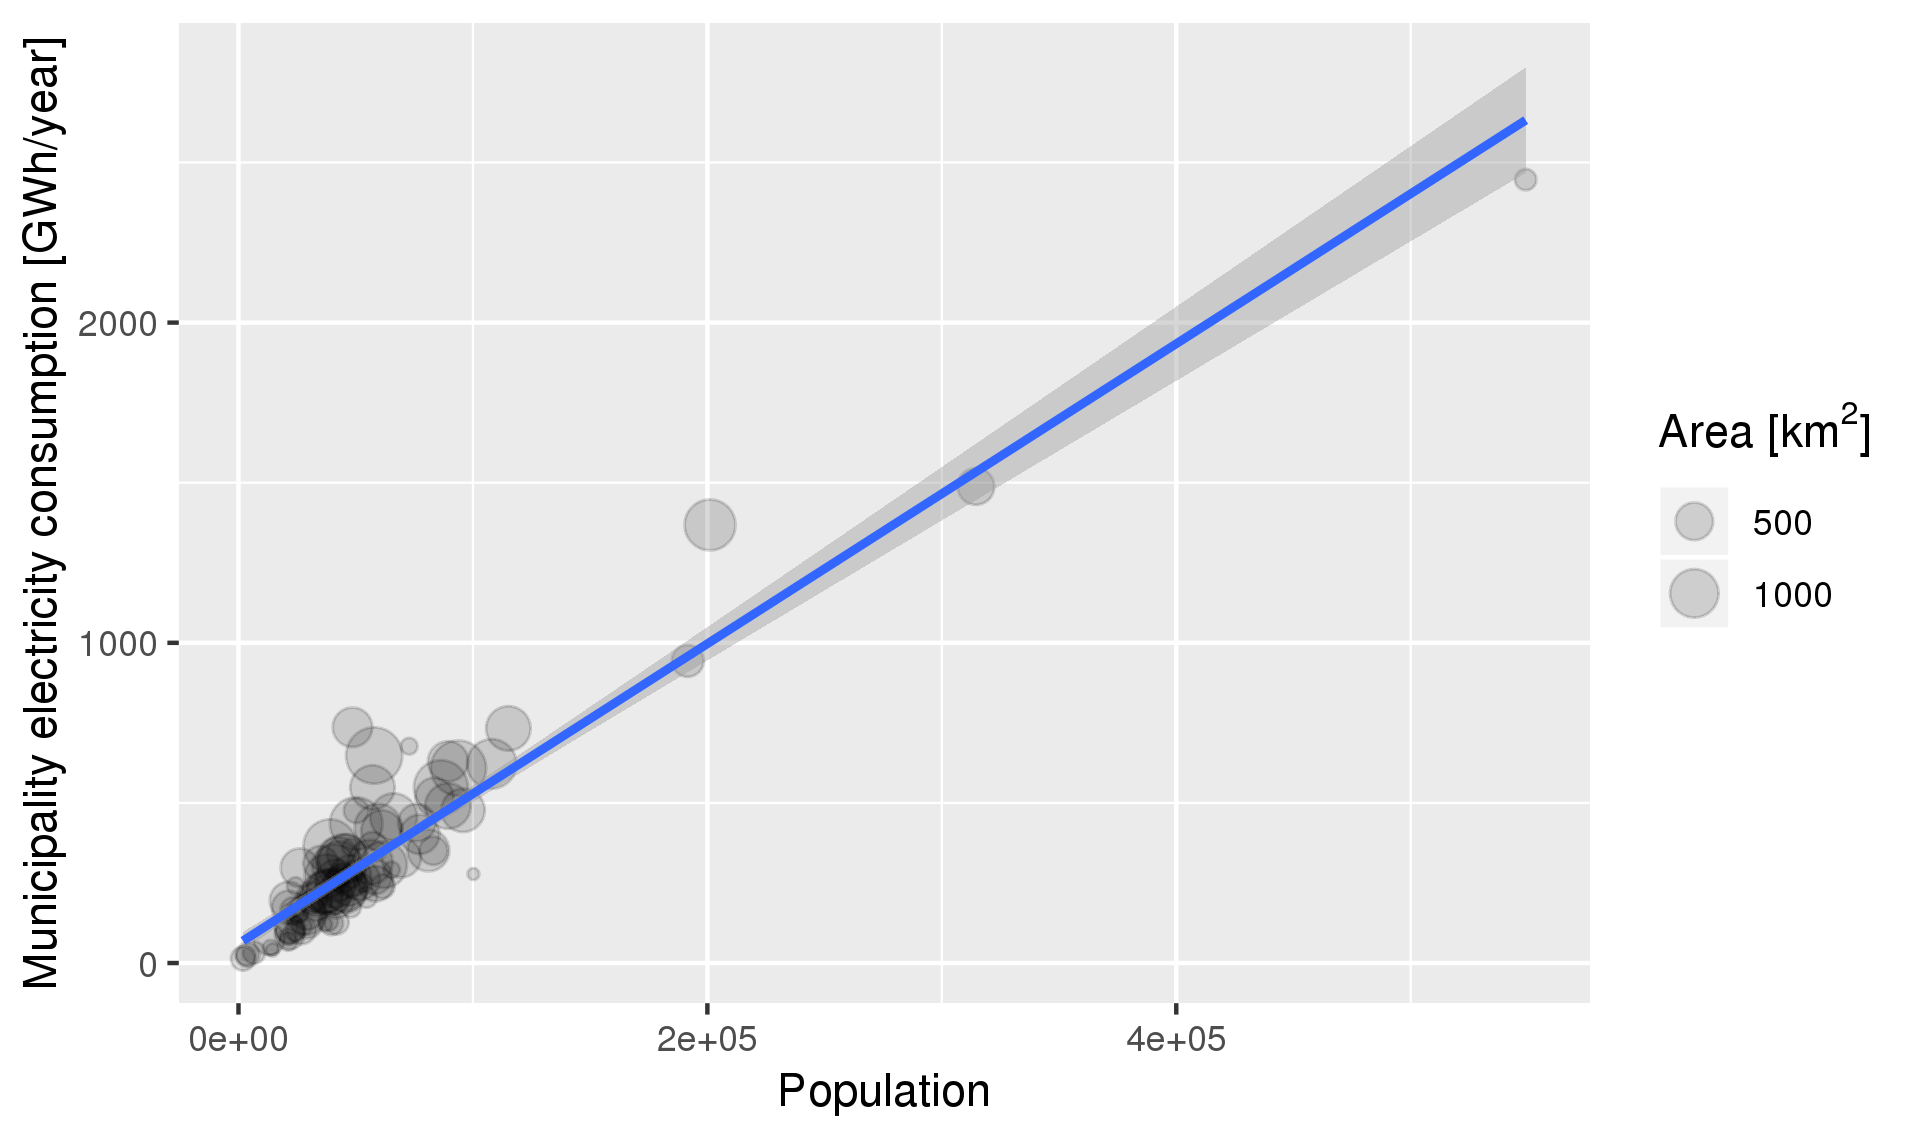
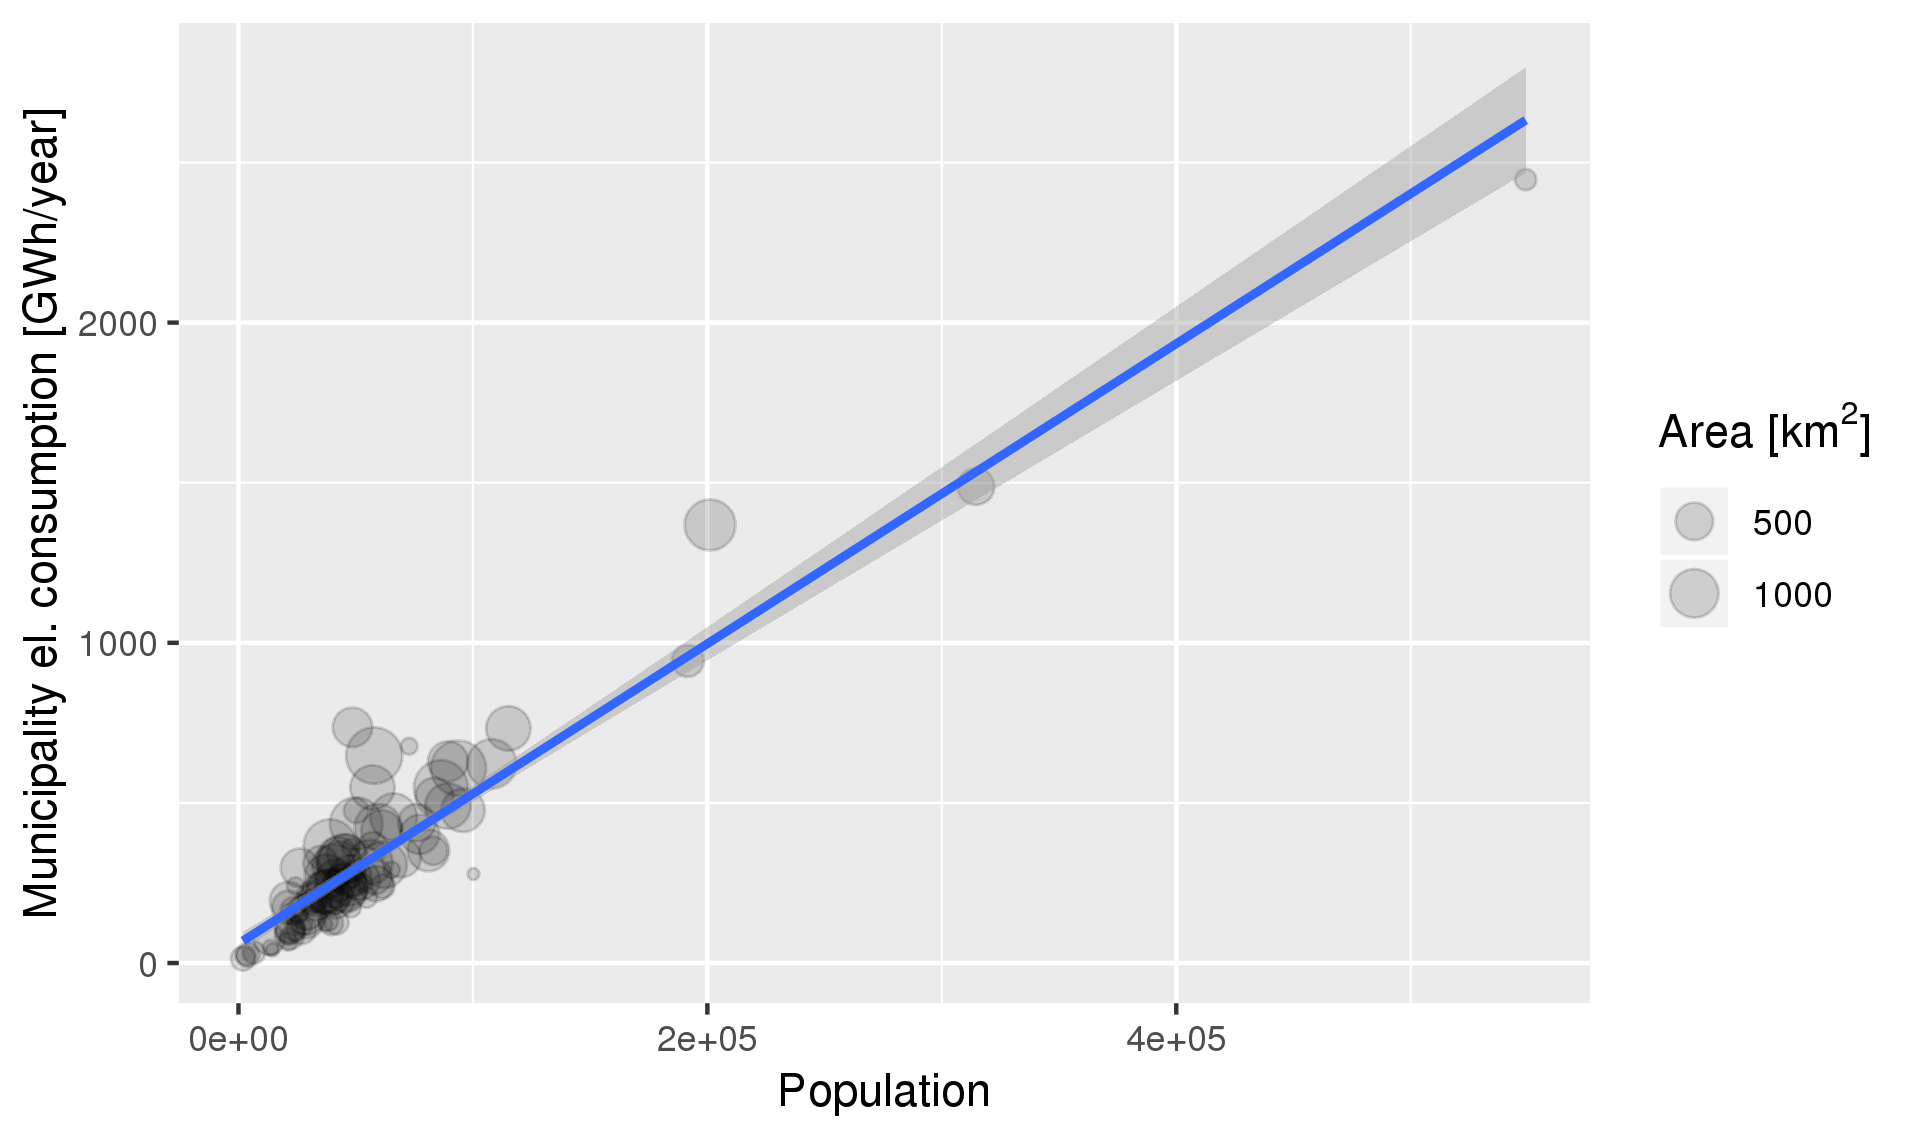
Update el. DK plots

Changed region(s): [[0.0, 0.0307, 0.0308, 0.8596]]

diff --git a/_posts/2018-08-19-electricity-dk.md b/_posts/2018-08-19-electricity-dk.md
@@ -17,11 +17,14 @@ tags: R, ggplot2, visualization
 **Fig. 2:** Mean electricity consumption per capita
 
 ![Consumption in time](/gfx/electricity-dk/consumption_vs_time.png)
-**Fig. 3:** Mean electricity consumption in Denmark in time (polynomial fit, shaded area - 95% confidence interval)
+**Fig. 3:** Mean electricity consumption per municipality (polynomial fit, shaded area - 95% confidence interval)
 
 ![Consumption vs population](/gfx/electricity-dk/avg_consumption_vs_population.png)
-**Fig. 4:** Average electricity consumption vs. municipality population (linear fit, shaded area - 95% confidence interval)
+**Fig. 4:** Mean electricity consumption vs. municipality population (linear fit, shaded area - 95% confidence interval)
 
 ![Consumption vs population](/gfx/electricity-dk/avg_consumption_vs_area.png)
-**Fig. 5:** Average electricity consumption vs. municipality area
+**Fig. 5:** Mean electricity consumption vs. municipality area
+
+![Consumption vs population](/gfx/electricity-dk/avg_consumption_per_area_vs_area.png)
+**Fig. 6:** Mean electricity consumption per area vs. municipality area
 
